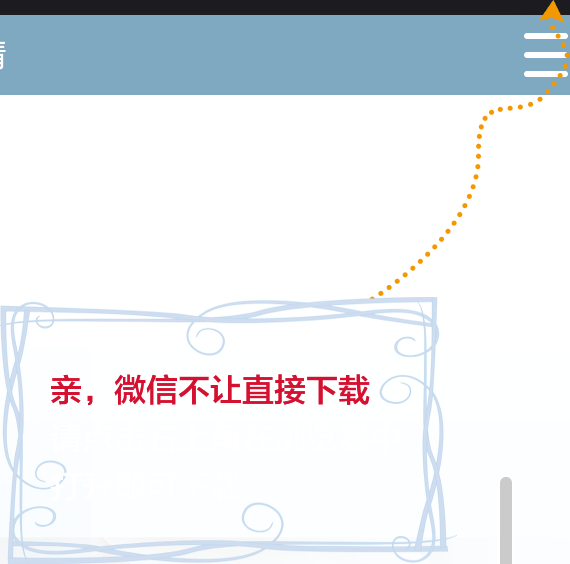
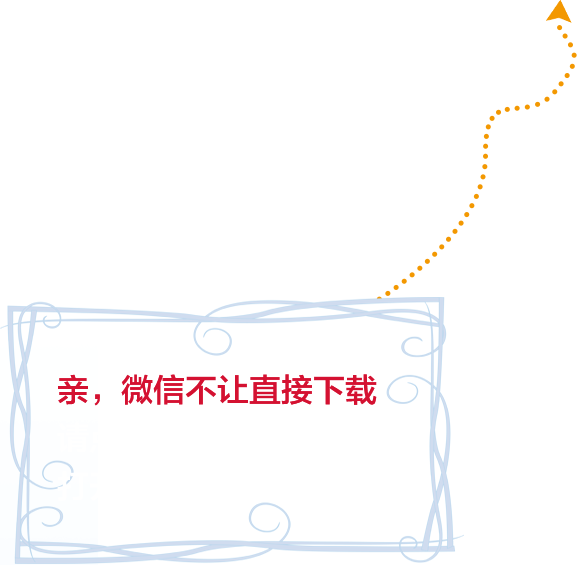
夺标之星

diff --git a/jiazhihui/backreword.html b/jiazhihui/backreword.html
@@ -21,48 +21,8 @@
 		<div class="part part1">
 			<div class="cloud">往期回顾</div>
 			<ul id="backShow">
-				<li><a href=""><img src="images/img1.jpg" alt=""></a></li>
-				<li><a href=""><img src="images/img1.jpg" alt=""></a></li>
-				<li><a href=""><img src="images/img1.jpg" alt=""></a></li>
-				<li><a href=""><img src="images/img1.jpg" alt=""></a></li>
-				<li><a href=""><img src="images/img1.jpg" alt=""></a></li>
-				<li><a href=""><img src="images/img1.jpg" alt=""></a></li>
-
-				<li><a href=""><img src="images/img2.jpg" alt=""></a></li>
-				<li><a href=""><img src="images/img2.jpg" alt=""></a></li>
-				<li><a href=""><img src="images/img2.jpg" alt=""></a></li>
-				<li><a href=""><img src="images/img2.jpg" alt=""></a></li>
-				<li><a href=""><img src="images/img2.jpg" alt=""></a></li>
-				<li><a href=""><img src="images/img2.jpg" alt=""></a></li>
-
-				<li><a href=""><img src="images/img3.jpg" alt=""></a></li>
-				<li><a href=""><img src="images/img3.jpg" alt=""></a></li>
-				<li><a href=""><img src="images/img3.jpg" alt=""></a></li>
-				<li><a href=""><img src="images/img3.jpg" alt=""></a></li>
-				<li><a href=""><img src="images/img3.jpg" alt=""></a></li>
-				<li><a href=""><img src="images/img3.jpg" alt=""></a></li>
-
-				<li><a href=""><img src="images/img4.jpg" alt=""></a></li>
-				<li><a href=""><img src="images/img4.jpg" alt=""></a></li>
-				<li><a href=""><img src="images/img4.jpg" alt=""></a></li>
-				<li><a href=""><img src="images/img4.jpg" alt=""></a></li>
-				<li><a href=""><img src="images/img4.jpg" alt=""></a></li>
-				<li><a href=""><img src="images/img4.jpg" alt=""></a></li>
-
-				<li><a href=""><img src="images/img5.jpg" alt=""></a></li>
-				<li><a href=""><img src="images/img5.jpg" alt=""></a></li>
-				<li><a href=""><img src="images/img5.jpg" alt=""></a></li>
-				<li><a href=""><img src="images/img5.jpg" alt=""></a></li>
-				<li><a href=""><img src="images/img5.jpg" alt=""></a></li>
-				<li><a href=""><img src="images/img5.jpg" alt=""></a></li>
-
-				<li><a href=""><img src="images/img6.jpg" alt=""></a></li>
-				<li><a href=""><img src="images/img6.jpg" alt=""></a></li>
-				<li><a href=""><img src="images/img6.jpg" alt=""></a></li>
-				<li><a href=""><img src="images/img6.jpg" alt=""></a></li>
-				<li><a href=""><img src="images/img6.jpg" alt=""></a></li>
-				<li><a href=""><img src="images/img6.jpg" alt=""></a></li>
-
+				<li><a href=""><img src="images/img7.jpg" alt=""></a></li>
+				<li><a href=""><img src="images/img7.jpg" alt=""></a></li>
 				<li><a href=""><img src="images/img7.jpg" alt=""></a></li>
 				<li><a href=""><img src="images/img7.jpg" alt=""></a></li>
 				<li><a href=""><img src="images/img7.jpg" alt=""></a></li>
@@ -77,8 +37,8 @@
 			<div class="cloud">排行榜</div>
 			<div class="ranking">
 				<ul class="rankTab mt15-imp" id="tab2">
-					<li onclick="nTabs(this,0)" class="active">报价单</li>
-					<li onclick="nTabs(this,1)" class="normal">投放管理</li>
+					<li onclick="nTabs(this,0)" class="active">个人排行</li>
+					<li onclick="nTabs(this,1)" class="normal">我的商机</li>
 				</ul>
 				<div class="tabCont">
 					<div id="tab2_Content0" style="display: block;">
@@ -459,7 +419,8 @@
 				showLi = backShow.getElementsByTagName('li'),
 				change = document.querySelector('#change'),
 				flag = 1,
-				showArr = [];
+				changeFlag = 0,
+				turn = 7;	//有几批资源
 
 			block.style.width = cw + 'px';
 			block.style.height = ch + 'px';
@@ -482,6 +443,20 @@
 			// 换一批
 			change.onclick = function () {
 				backShow.innerHTML = '';
+				if(changeFlag < turn) {
+					backShow.innerHTML = creatLi(changeFlag);
+					changeFlag++;
+				}else{
+					changeFlag = 0;
+				}
+			}
+
+			function creatLi (num) {
+				var result = '';
+				for(var m = 0; m < 6; m++) {
+					result += '<li><a href=""><img src="images/img' + (num+1) + '.jpg" alt=""></a></li>';
+				}
+				return result;
 			}
 
 			// 分页

diff --git a/jiazhihui/css/style.css b/jiazhihui/css/style.css
@@ -66,7 +66,7 @@ table.blue th,table.blue td{padding-left: 1.5rem;border-right: 1px solid #6bc3f1
 .subInfo .form-item{width: 100%;height: 5rem;}
 .subInfo .form-item.select{position: relative;}
 .subInfo .form-item.select::after{content: "";position: absolute;right: 0;top: 0;background: url(../images/downArr.png) 0 0 no-repeat;background-size: auto 3.9rem;width: 3.9rem;height: 3.9rem;}
-.subInfo select{width: 100%;height: 4rem;line-height: 4rem;font-size: 1.4rem;border: 1px solid #eaaf79;}
+.subInfo select{padding-left: .5rem;width: 100%;height: 4rem;line-height: 4rem;font-size: 1.4rem;border: 1px solid #eaaf79;box-sizing: border-box;}
 .subInfo input{padding-left: .5rem;display: block;width: 100%;height: 4rem;line-height: 4rem;font-size: 1.4rem;color: #464545;border: 1px solid #eaaf79;box-sizing: border-box;}
 .subInfo p{font-size: 1.2rem;color: #464545;line-height: 1.9rem;}
 .subInfo p.red{font-size: 1rem;color: #ff0000;}
@@ -101,7 +101,7 @@ table.blue th,table.blue td{padding-left: 1.5rem;border-right: 1px solid #6bc3f1
 .reback .myBusCom .info p em{font-weight: normal;font-size: .7rem;}
 .reback .myBusCom table{margin-top: 0;box-shadow: none;border: none;}
 .reback .myBusCom table th{background: #caeeea;}
-.reback .myBusCom table th, table td{border: none;}
+.reback .myBusCom table th,.reback .myBusCom table td{border: none;}
 
 /*首页*/
 .homeBox{padding-top: 27.5rem;}
@@ -133,16 +133,19 @@ table.blue th,table.blue td{padding-left: 1.5rem;border-right: 1px solid #6bc3f1
 /*产品详情*/
 .proDet .tabCont{padding: 1.8rem 2.5rem 0 2.5rem;}
 .proDet .proDe1{display: -webkit-box;-webkit-box-pack: justify;padding: 1rem 2rem;background: #fff;width: 100%;height: 11.5rem;box-sizing: border-box;}
-.proDet .proDe1 .lef{width: 13.1rem;height: 11.5rem;line-height: 11.5rem;}
+.proDet .proDe1 .lef{width: 12rem;line-height: 10rem;}
 .proDet .proDe1 .lef img{width: 9.8rem;height: 6.7rem;}
 .proDet .proDe1 .rig{-webkit-box-flex: 1;text-align: right;}
 .proDet .proDe1 h2{color: #45454a;font-size: 1.6rem;line-height: 2.2rem;text-align: left;}
 .proDet .proDe1 h2 em{margin-left: .5rem;display: inline-block;padding: .1rem .5rem;color: #fff4b1;font-size: 1.6rem;background: #ff7131;}
 .proDet .proDe1 h3{font-size: 1.2rem;color: #45454a;line-height: 1.6rem;text-align: left;}
-.proDet .proDe1 button{padding: .1rem .4rem;display: inline-block;color: #ff7131;background: #ffd9b0;border: 1px solid #ff7131;}
+.proDet .proDe1 button{padding: .2rem .4rem;display: inline-block;color: #ff7131;background: #ffd9b0;border: 1px solid #ff7131;}
 .proDet .proDe2{width: 100%;height: 8.5rem;background: #eee;border-top: 1px solid #ff7131;overflow-y: scroll;}
 .proDet .proDe2 li{position: relative;padding: 0 4rem 0 2.5rem;width: 100%;height: 2.8rem;line-height: 2.8rem;border-bottom: 1px solid #c0c0c0;font-size: 1.2rem;color: #727171;box-sizing: border-box;}
 .proDet .proDe2 li:before{content: "";position: absolute;top: 1.1rem;left: 1.7rem;width: .5rem;height: .5rem;border-radius: 50%;background: #ff7131;}
 .proDet .proDe2 li:after{content: "";position: absolute;top: 1rem;right: 2.5rem;background: url(../images/download.png) 0 0 no-repeat;background-size: 1.3rem auto;width: 1.3rem;height: 1rem;}
 .proDet .proDe2 li.active{color: #ff7131;}
 .proDet .proDe2 li.active:after{background: url(../images/download_act.png) 0 0 no-repeat;background-size: 1.3rem auto;}
+
+.shareTip{position: absolute;top: 0rem;right: 1rem;display: none;}
+.shareTip img{width: 28.8rem;height: 28.2rem;}

diff --git a/jiazhihui/activityDetail.html b/jiazhihui/activityDetail.html
@@ -127,7 +127,7 @@
 				</tbody>
 			</table>
 
-			<h4 class="ptb4">2. 大客户服务商参与方式及奖励：大客户服务商按其下游经销商参与家数进行排名，获得不同的客户开拓奖励。</h4>
+			<h4 class="ptb4 mt6">2. 大客户服务商参与方式及奖励：大客户服务商按其下游经销商参与家数进行排名，获得不同的客户开拓奖励。</h4>
 			<h5 class="ptb4 pl15"><em>1</em><b>入围奖：</b>经销商激活（服务商其下游经销商申报成功的家数），先到先得，不重复获奖</h5>
 			<table class="blue">
 				<thead>
@@ -150,7 +150,7 @@
 					</tr>
 				</tbody>
 			</table>
-			<h5 class="ptb4 pl15"><em>2</em><b>争先奖：</b>经销商申报成功家数的全国排名（可重复获得入围奖）</h5>
+			<h5 class="ptb4 pl15 mt7"><em>2</em><b>争先奖：</b>经销商申报成功家数的全国排名（可重复获得入围奖）</h5>
 			<table class="blue">
 				<thead>
 					<tr>
@@ -174,7 +174,7 @@
 				</tbody>
 			</table>
 
-			<h4 class="ptb4">3. 立项申报及积分统计规则：登录价值汇网站http://jiazhipc.lenovo.com.cn，可点击首页“夺标之星”</h4>
+			<h4 class="ptb4 mt6 mb2">3. 立项申报及积分统计规则：登录价值汇网站http://jiazhipc.lenovo.com.cn，可点击首页“夺标之星”</h4>
 			<h5 class="ptb3"><b>申&nbsp;&nbsp;&nbsp;&nbsp;&nbsp;&nbsp;&nbsp;报：</b>在价值汇填报立项商机编号自行上报</h5>
 			<h5 class="ptb3 pl50 rel"><b class="abs" style="left: 0;top: .4rem;">统计原则：</b>1.积分以立项实际过账数量为准       2.积分统计只针对行单，不包含备货      3.单个立项项目产品总量台式机不超过200台， 笔记本不超过100台      4.商机立项编码是申报销量的唯一凭证，采取客户归属原则，不能重复使用，如发现商机立项编码已被申报， 可凭原始客户合同（照片或扫描件）提出申诉</h5>
 

diff --git a/jiazhihui/productDetail.html b/jiazhihui/productDetail.html
@@ -30,7 +30,7 @@
 					<div class="rig">
 						<h2>启天<em>A8510</em></h2>
 						<h3 class="mt8">超薄旗舰视频会议首选超会议首选</h3>
-						<button class="mt8">辅助资料下载</button>
+						<button class="mt8" id="share">辅助资料下载</button>
 					</div>
 				</div>
 				<div class="proDe2">
@@ -111,6 +111,9 @@
 			<a href="backreword.html"><li><img src="images/icon7.png" alt="">往期回顾</li></a>
 		</ul>
 	</div>
+	<div class="shareTip" id="shareTip">
+		<img src="images/weixinShare.png" alt="">
+	</div>
 
 	<script>
 		window.onload = function () {
@@ -121,7 +124,10 @@
 				block = document.querySelector('#block'),
 				carte = document.querySelector('#carte'),
 				close = document.querySelector('#close'),
-				flag = 1;
+				share = document.querySelector('#share'),
+				shareTip = document.querySelector('#shareTip'),
+				flag = 1,
+				shareBlock = 0;
 
 			block.style.width = cw + 'px';
 			block.style.height = ch + 'px';
@@ -140,6 +146,17 @@
 					flag = 1;
 				}
 			}
+			share.onclick = function () {
+				block.style.display = 'block';
+				shareTip.style.display = 'block';
+				shareBlock = 1;
+			}
+			block.addEventListener('click', function () {
+				if(shareBlock) {
+					shareTip.style.display = 'none';
+					block.style.display = 'none';
+				}
+			});
 		}
 	</script>
 </body>

diff --git a/jiazhihui/busiOpportunity.html b/jiazhihui/busiOpportunity.html
@@ -19,8 +19,8 @@
 	</header>
 	<div class="main">
         <ul class="tab mt15-imp" id="tab1">
-            <li onclick="nTabs(this,0)" class="active">报价单</li>
-            <li onclick="nTabs(this,1)" class="normal">投放管理</li>
+            <li onclick="nTabs(this,0)" class="active">提交信息</li>
+            <li onclick="nTabs(this,1)" class="normal">考试</li>
         </ul>
 
         <div class="tabCont">
@@ -29,7 +29,7 @@
                     <div class="form-item select">
                         <select name="" id="">
                             <option value=""></option>
-                            <option value="商机类型">商机类型</option>
+                            <option value="商机类型" selected="">商机类型</option>
                             <option value="商机类型">商机类型</option>
                             <option value="商机类型">商机类型</option>
                             <option value="商机类型">商机类型</option>
